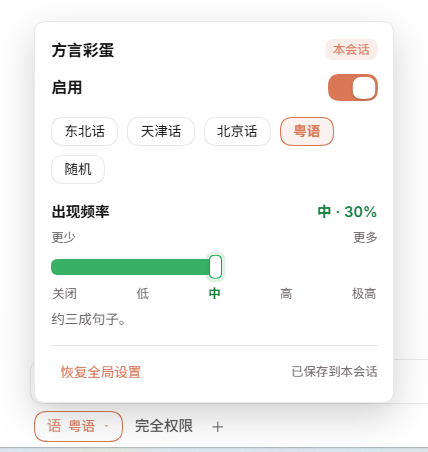
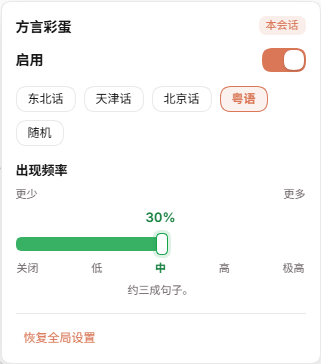
docs: refresh screenshots for the aligned frequency layout

diff --git a/README.en.md b/README.en.md
@@ -16,7 +16,7 @@ Keep answers in plain Mandarin and occasionally season them with a little dialec
 
 | Settings page | Composer control |
 | --- | --- |
-| <img src="https://raw.githubusercontent.com/Luoqiaocong/dsh-dialect/main/docs/screenshots/settings.png" width="430" alt="Dialect spice settings page with Cantonese and medium 30%" /> | <img src="https://raw.githubusercontent.com/Luoqiaocong/dsh-dialect/main/docs/screenshots/composer.png" width="260" alt="Cantonese shortcut beside the composer" /> |
+| <img src="https://raw.githubusercontent.com/Luoqiaocong/dsh-dialect/main/docs/screenshots/settings.png?v=2" width="430" alt="Dialect spice settings page with Cantonese and medium 30%" /> | <img src="https://raw.githubusercontent.com/Luoqiaocong/dsh-dialect/main/docs/screenshots/composer.png?v=2" width="260" alt="Cantonese shortcut beside the composer" /> |
 
 ### Cantonese answer
 

diff --git a/README.md b/README.md
@@ -16,7 +16,7 @@
 
 | 设置页 | 对话输入框 |
 | --- | --- |
-| <img src="https://raw.githubusercontent.com/Luoqiaocong/dsh-dialect/main/docs/screenshots/settings.png" width="430" alt="方言彩蛋设置页，粤语、中档 30%" /> | <img src="https://raw.githubusercontent.com/Luoqiaocong/dsh-dialect/main/docs/screenshots/composer.png" width="260" alt="对话输入框旁的粤语快捷控制" /> |
+| <img src="https://raw.githubusercontent.com/Luoqiaocong/dsh-dialect/main/docs/screenshots/settings.png?v=2" width="430" alt="方言彩蛋设置页，粤语、中档 30%" /> | <img src="https://raw.githubusercontent.com/Luoqiaocong/dsh-dialect/main/docs/screenshots/composer.png?v=2" width="260" alt="对话输入框旁的粤语快捷控制" /> |
 
 ### 回答效果（粤语）
 
